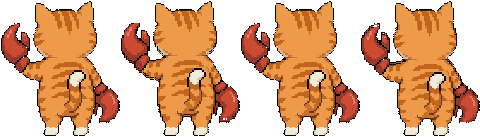
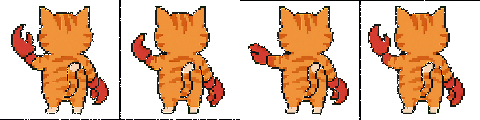
feat: replace anim sheets with gpt-image-2 4-frame grids

diff --git a/frontend/index.html b/frontend/index.html
@@ -4014,10 +4014,12 @@ function toggleBrokerPanel() {
             this.load.image('edit_desk',      '/static/edit-desk.png?v={{VERSION_TIMESTAMP}}');
             this.load.image('wall_patch',     '/static/wall-patch.png?v={{VERSION_TIMESTAMP}}');
 
-            // Per-state character pose sprite SHEETS (4 frames each, red-claw wobble).
-            this.load.spritesheet('cat_pose_writing',   '/static/cat-anim-writing.png?v={{VERSION_TIMESTAMP}}',   { frameWidth: 120, frameHeight: 108 });
-            this.load.spritesheet('cat_pose_executing', '/static/cat-anim-executing.png?v={{VERSION_TIMESTAMP}}', { frameWidth: 120, frameHeight: 137 });
-            this.load.spritesheet('cat_pose_thinking',  '/static/cat-anim-thinking.png?v={{VERSION_TIMESTAMP}}',  { frameWidth: 120, frameHeight: 144 });
+            // Per-state character pose sprite SHEETS (4 frames each, full AI-generated).
+            // Regenerated via gpt-image-2 Responses API with reference image → 2x2 grid
+            // sliced + chroma-keyed + stitched horizontally.
+            this.load.spritesheet('cat_pose_writing',   '/static/cat-anim-writing.png?v={{VERSION_TIMESTAMP}}',   { frameWidth: 120, frameHeight: 120 });
+            this.load.spritesheet('cat_pose_executing', '/static/cat-anim-executing.png?v={{VERSION_TIMESTAMP}}', { frameWidth: 120, frameHeight: 120 });
+            this.load.spritesheet('cat_pose_thinking',  '/static/cat-anim-thinking.png?v={{VERSION_TIMESTAMP}}',  { frameWidth: 120, frameHeight: 139 });
 
             // Sync state animation (256x256, 多帧): 非同步显示首帧，同步从第2帧循环
             this.load.spritesheet('sync_anim', '/static/sync-animation-v3-grid.webp?v={{VERSION_TIMESTAMP}}', { frameWidth: 256, frameHeight: 256 });
